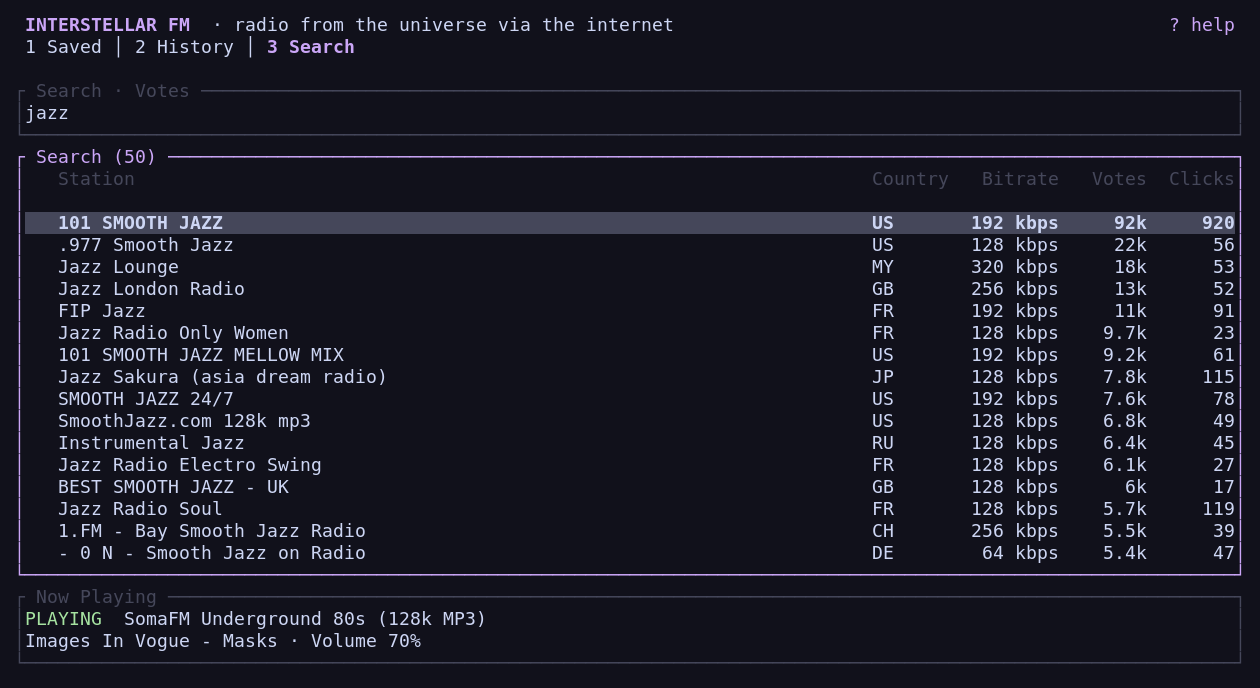
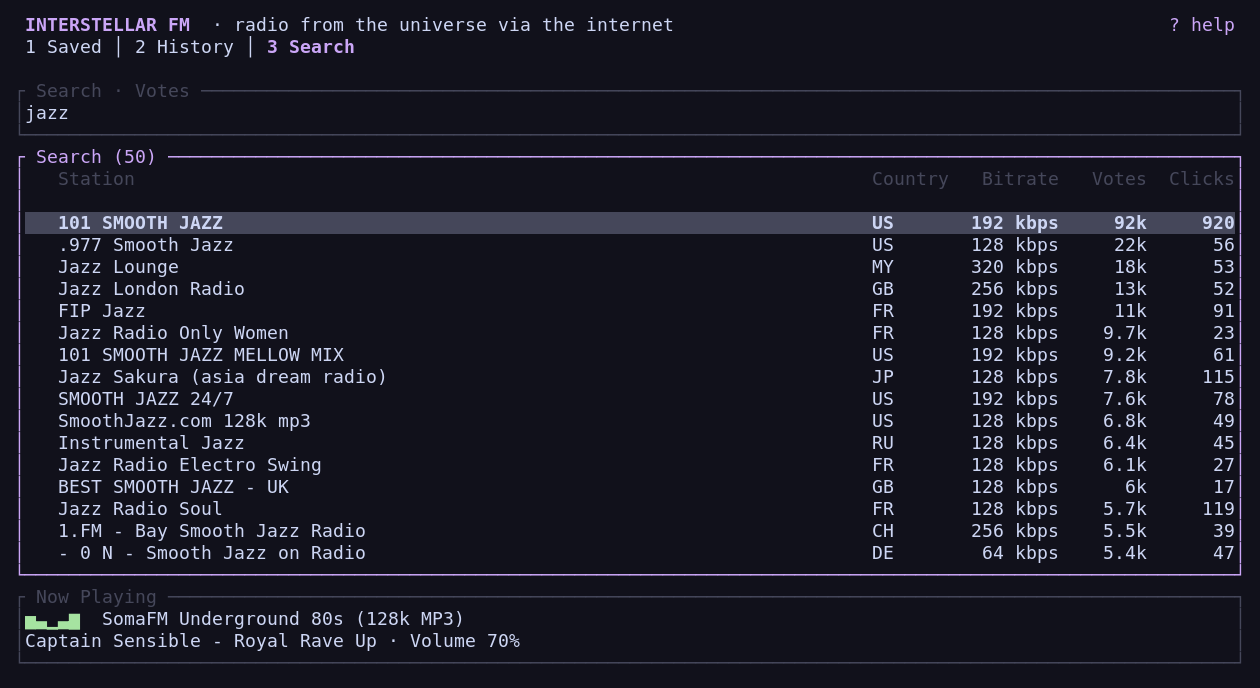
ui: show an animated equalizer during playback and a static pause indicator

Changed region(s): [[0.0, 0.8852, 0.4024, 0.9462]]

diff --git a/src/ui.rs b/src/ui.rs
@@ -84,6 +84,37 @@ fn panel(title: &str, color: Color) -> Block<'_> {
         .border_style(Style::default().fg(color))
 }
 
+fn playback_indicator(app: &App) -> Span<'static> {
+    const FRAMES: [&str; 8] = [
+        "▁▃▆▄▂",
+        "▂▅█▆▃",
+        "▄▇▅▃▁",
+        "▆▄▂▄▆",
+        "▃▁▄▇▅",
+        "▁▄▇▅▂",
+        "▃▆▄▂▄",
+        "▅▃▁▃▆",
+    ];
+    let (label, color) = match app.playback.as_str() {
+        // The existing event-loop tick is 50 ms; animate at a quieter 150 ms.
+        "PLAYING" => (
+            FRAMES[(app.animation_tick / 3 % FRAMES.len() as u64) as usize],
+            Color::Green,
+        ),
+        "PAUSED" => ("Ⅱ", Color::Yellow),
+        "ERROR" => ("ERROR", Color::Red),
+        "IDLE" => ("IDLE", Color::DarkGray),
+        "STOPPED" => ("STOPPED", Color::DarkGray),
+        state => (state, Color::Yellow),
+    };
+    // Keep the station name aligned when switching between bars and pause.
+    let padding = 5usize.saturating_sub(Line::from(label).width()) + 2;
+    Span::styled(
+        format!("{label}{}", " ".repeat(padding)),
+        Style::default().fg(color).add_modifier(Modifier::BOLD),
+    )
+}
+
 pub fn draw(frame: &mut Frame, app: &mut App) {
     let size = frame.area();
     if size.width < 36 || size.height < 18 {
@@ -268,17 +299,7 @@ pub fn draw(frame: &mut Frame, app: &mut App) {
         &app.metadata
     };
     let player = vec![
-        Line::from(vec![
-            Span::styled(
-                format!("{}  ", app.playback),
-                Style::default().fg(if app.playback == "ERROR" {
-                    Color::Red
-                } else {
-                    Color::Green
-                }),
-            ),
-            Span::raw(current),
-        ]),
+        Line::from(vec![playback_indicator(app), Span::raw(current)]),
         Line::from(format!(
             "{} · Volume {}%{}",
             clean(metadata),
@@ -449,6 +470,46 @@ mod tests {
             .iter()
             .map(|cell| cell.symbol())
             .collect()
+    }
+
+    #[test]
+    fn equalizer_animates_only_while_playing_and_pause_keeps_the_name_aligned() {
+        let mut app = App::new(
+            crate::config::Config::default(),
+            crate::model::Library::default(),
+        );
+        app.playback = "PLAYING".into();
+        let first = playback_indicator(&app);
+        app.animation_tick = 2;
+        assert_eq!(playback_indicator(&app).content, first.content);
+        app.animation_tick = 3;
+        assert_ne!(playback_indicator(&app).content, first.content);
+        app.animation_tick = 24;
+        assert_eq!(playback_indicator(&app).content, first.content);
+        assert!(!first.content.contains("PLAYING"));
+        assert_eq!(first.style.fg, Some(Color::Green));
+        for state in [
+            "PAUSED",
+            "CONNECTING",
+            "BUFFERING",
+            "RECONNECTING 1/2",
+            "ERROR",
+            "IDLE",
+            "STOPPED",
+        ] {
+            app.playback = state.into();
+            app.animation_tick = 0;
+            let before = playback_indicator(&app);
+            app.animation_tick = 9;
+            assert_eq!(playback_indicator(&app).content, before.content);
+            if state == "PAUSED" {
+                assert_eq!(before.content.trim(), "Ⅱ");
+                assert_eq!(before.width(), first.width());
+                assert_eq!(before.style.fg, Some(Color::Yellow));
+            } else {
+                assert_eq!(before.content.trim(), state);
+            }
+        }
     }
 
     #[test]

diff --git a/src/tests.rs b/src/tests.rs
@@ -43,6 +43,25 @@ fn fixture() -> (Engine, App, Station) {
 }
 
 #[test]
+fn playback_animation_ticks_and_pause_resume_preserve_history() {
+    let (mut engine, mut app, _) = fixture();
+    engine.player_event(&mut app, 4, PlayerEvent::Started);
+    for _ in 0..3 {
+        engine.tick(&mut app);
+    }
+    assert_eq!(app.animation_tick, 3);
+    assert_eq!(app.playback, "PLAYING");
+    engine.player_event(&mut app, 4, PlayerEvent::Paused(true));
+    engine.tick(&mut app);
+    assert!(app.paused);
+    assert_eq!(app.playback, "PAUSED");
+    engine.player_event(&mut app, 4, PlayerEvent::Paused(false));
+    assert!(!app.paused);
+    assert_eq!(app.playback, "PLAYING");
+    assert_eq!(app.library.history.len(), 1);
+}
+
+#[test]
 fn only_successful_current_attempt_records_history() {
     let (mut engine, mut app, station) = fixture();
     engine.player_event(&mut app, 3, PlayerEvent::Started);

diff --git a/scripts/screenshots.py b/scripts/screenshots.py
@@ -145,7 +145,7 @@ def main():
                         key("Down")
                     key("Return")
                     try:
-                        wait_for(lambda text: "PLAYING" in text and len(json.loads(library.read_text())["history"]) > before, "stream playback", timeout=25)
+                        wait_for(lambda text: re.search(r"[▁▂▃▄▅▆▇█]{5}", text) and len(json.loads(library.read_text())["history"]) > before, "stream playback", timeout=25)
                     except RuntimeError as error:
                         print(f"Skipping unavailable stream: {favorites[index]['name']} ({error.args[0].splitlines()[0]})")
                     if len(json.loads(library.read_text())["history"]) >= 3:

diff --git a/scripts/smoke-test.py b/scripts/smoke-test.py
@@ -147,8 +147,10 @@ def main():
             send("p")
             wait_for(lambda: len(library().get("history", [])) == 1, "successful mpv playback/history")
             assert len(library()["favorites"]) == 1
+            wait_for(lambda: any(bar.encode() in transcript for bar in "▁▂▃▄▅▆▇█"), "playing equalizer")
             send("p")
             wait_for(lambda: player_property("pause") is True, "pause")
+            wait_for(lambda: "Ⅱ".encode() in transcript, "pause indicator")
             send("p")
             wait_for(lambda: player_property("pause") is False, "resume")
             send("+")

diff --git a/src/app.rs b/src/app.rs
@@ -102,6 +102,7 @@ pub struct App {
     pub message: String,
     pub current: Option<Station>,
     pub playback: String,
+    pub animation_tick: u64,
     pub metadata: String,
     pub paused: bool,
     pub dirty: bool,
@@ -133,6 +134,7 @@ impl App {
             message: String::new(),
             current: None,
             playback: "IDLE".into(),
+            animation_tick: 0,
             metadata: String::new(),
             paused: false,
             dirty: false,

diff --git a/src/main.rs b/src/main.rs
@@ -282,6 +282,7 @@ impl Engine {
         }
     }
     fn tick(&mut self, app: &mut App) {
+        app.animation_tick = app.animation_tick.wrapping_add(1);
         if app.search_due.is_some_and(|due| Instant::now() >= due) {
             app.search_due = None;
             self.effect(app, Effect::Search);

diff --git a/docs/PLAN.md b/docs/PLAN.md
@@ -62,7 +62,7 @@ Always show Saved / History / Search as top tabs, with a full-width station tabl
 │ > ★ Jazz Radio            FR         128 kbps    12k    68k   │
 │     Jazz24                US         128 kbps   4.3k    23k   │
 ├───────────────────────────────────────────────────────────────┤
-│ PLAYING  Jazz Radio · Artist — Track, when available           │
+│ ▁▃▆▄▂    Jazz Radio · Artist — Track, when available           │
 │ LIVE · MP3 128 kbps                     Volume: 70%            │
 └───────────────────────────────────────────────────────────────┘
 ```
@@ -72,7 +72,7 @@ Always show Saved / History / Search as top tabs, with a full-width station tabl
 - Distinguish the selected row from the currently playing station.
 - Preserve each section's selection and scroll position independently.
 - Search input and sort controls appear in Search; Saved/History can have a local filter instead.
-- Bottom player: station, playback/buffering/error state, available ICY metadata, live indicator, volume, and mute state. Do not show a misleading track progress bar.
+- Now Playing panel: station, animated equalizer bars while playing and a static `Ⅱ` when paused; retain text labels for connecting/buffering/reconnecting/error states. The animation indicates playback status, not measured audio levels. Show available ICY metadata, live indicator, volume, and mute state. Do not show a misleading track progress bar.
 - No routine footer: a top-right help hint and a help overlay generated from the active keymap. Show station counts in table titles; only reserve a status line when there is an error or action feedback.
 - Station details popup: country, language, votes/clicks, tags, homepage, codec, bitrate, and stream URL.
 - At narrow widths, retain the top tabs and drop lower-priority table columns. At very small sizes, show a resize message without panicking.

diff --git a/docs/usage.md b/docs/usage.md
@@ -38,6 +38,12 @@ Favorites, History, volume, and mute persist across restarts. Counts are last-kn
 snapshots, refreshed when a station appears in a new directory response. Custom streams
 and older saved entries show `—` for unknown counts rather than zero.
 
+## Now Playing
+
+Moving equalizer bars indicate playback; a static `Ⅱ` indicates pause. The bars are
+an animation of playback status, **not measured audio levels**, and still move when
+muted. Connecting, buffering, reconnecting, and error states retain text labels.
+
 ## Add a stream or playlist
 
 1. Press `a` and enter an HTTP/HTTPS stream URL, a URL ending in `.pls`, or a local `.pls` path (`~/...` is supported).
